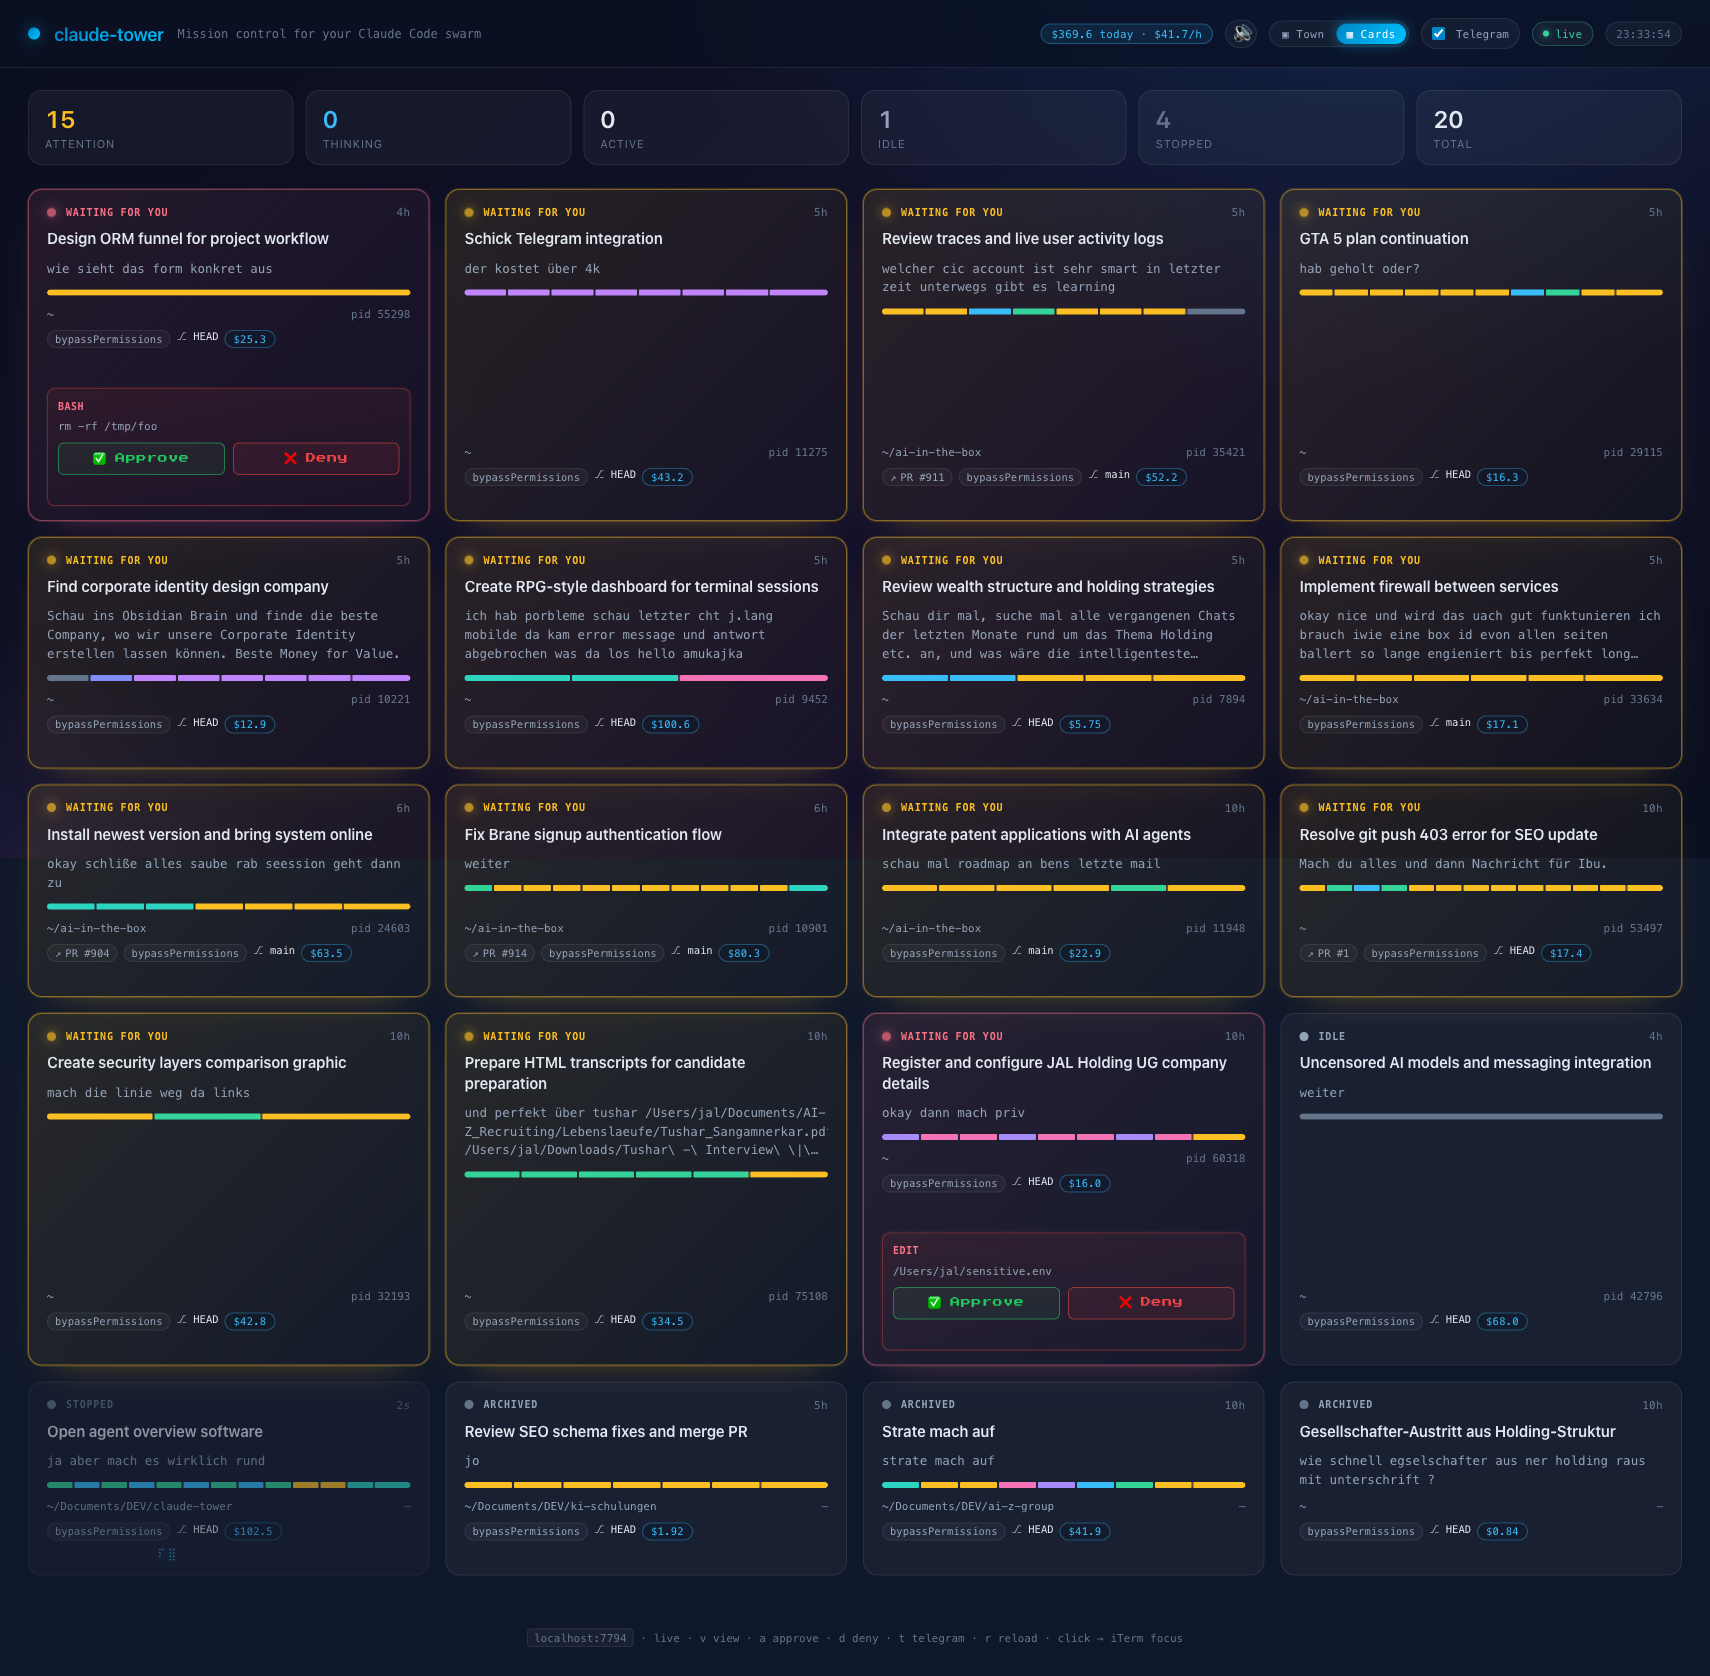
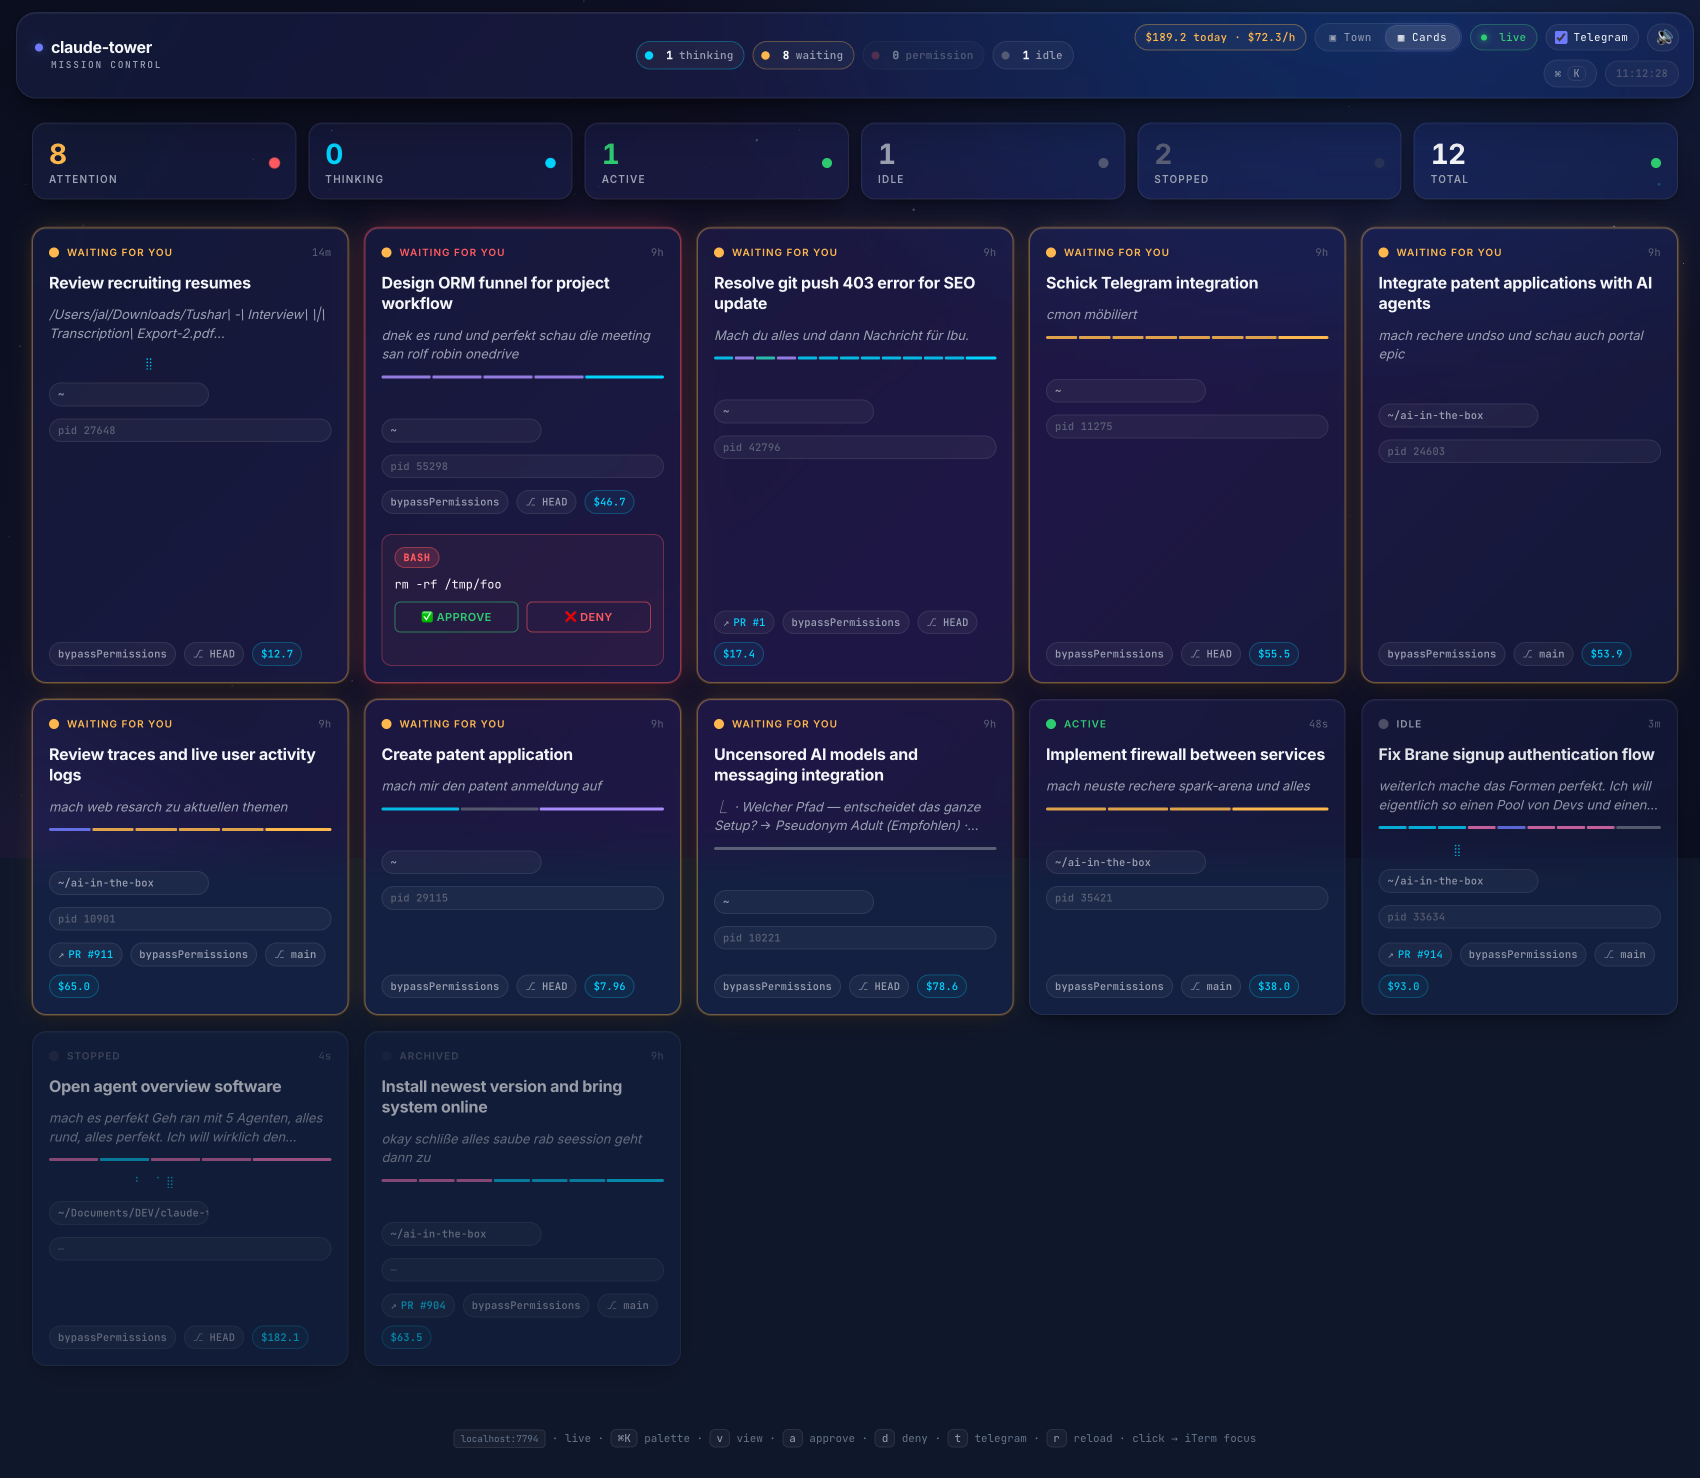
docs: v0.2 screenshots (liquid glass, town futurism, command palette)
- cards.png: glass cards + inline approval bar with green/red buttons
- town.png: HUD with live orbs, glass quest log, neon-outlined rooms
- palette.png: Vision-Pro style command palette (⌘K)

diff --git a/README.md b/README.md
@@ -27,12 +27,16 @@ You don't see any of it.
 
 `claude-tower` watches them all. It runs on your laptop, talks to nothing on the internet, and turns the chaos into a single board you actually look at.
 
-**Two views, one truth:**
+**Two views, one truth — plus a Vision-Pro-style command palette:**
 
 | Cards (analytical) | Town (ambient) |
 |---|---|
 | ![](./docs/img/cards.png) | ![](./docs/img/town.png) |
-| status, cost, sparkline, last prompt, approve/deny inline | each session is a pixel character in their project's "house" |
+| liquid-glass cards, status orbs with halo pulse, cost pill, inline approve/deny | each session is a pixel character in their project's "house" with neon hairline outlines |
+
+Press <kbd>⌘K</kbd> for the command palette: switch view, approve-all, jump-to-session.
+
+![](./docs/img/palette.png)
 
 ## What makes it different
 
@@ -44,6 +48,8 @@ You don't see any of it.
 | **Historic sessions** | ✅ SQLite, never lose a session | ❌ JSONL only |
 | **Hooks-driven, not polled** | ✅ Sub-second updates | ❌ Polls every 2-5s |
 | **Mobile-ready** | ✅ QR + token, runs over LAN | ❌ Localhost only |
+| **Command palette** | ✅ ⌘K, jump-to-session, bulk approve | ❌ |
+| **Two views** | ✅ Analytical cards + ambient pixel town | ❌ |
 | **Dependencies** | 1 native (`better-sqlite3`) | 50+ npm tree |
 
 ## Install
@@ -84,6 +90,9 @@ Get pinged when an agent needs you. Inline keyboard for approve/deny. Configure 
 
 ### Historic sessions
 SQLite at `~/.claude-tower/tower.sqlite`. Every event lives forever. Query with `tower db` (or any SQLite tool).
+
+### Command palette
+<kbd>⌘K</kbd> opens a fuzzy command bar: switch view, approve-all-pending, jump to a session (fuzzy-search across title + cwd + last prompt + branch), toggle telegram/sound, reload. Built like Linear/Raycast — keyboard-first.
 
 ## CLI
 
